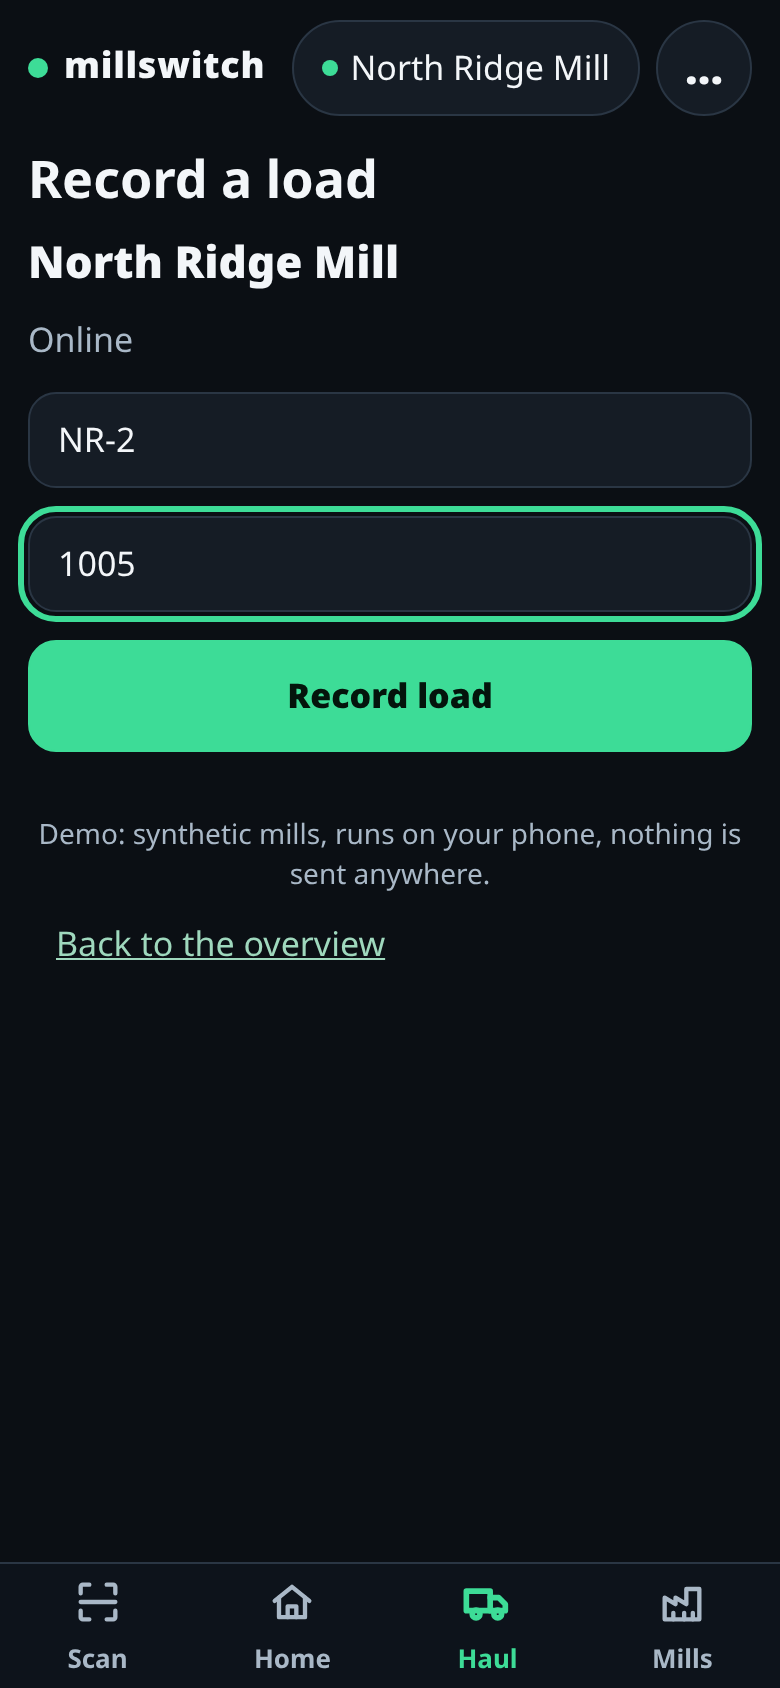
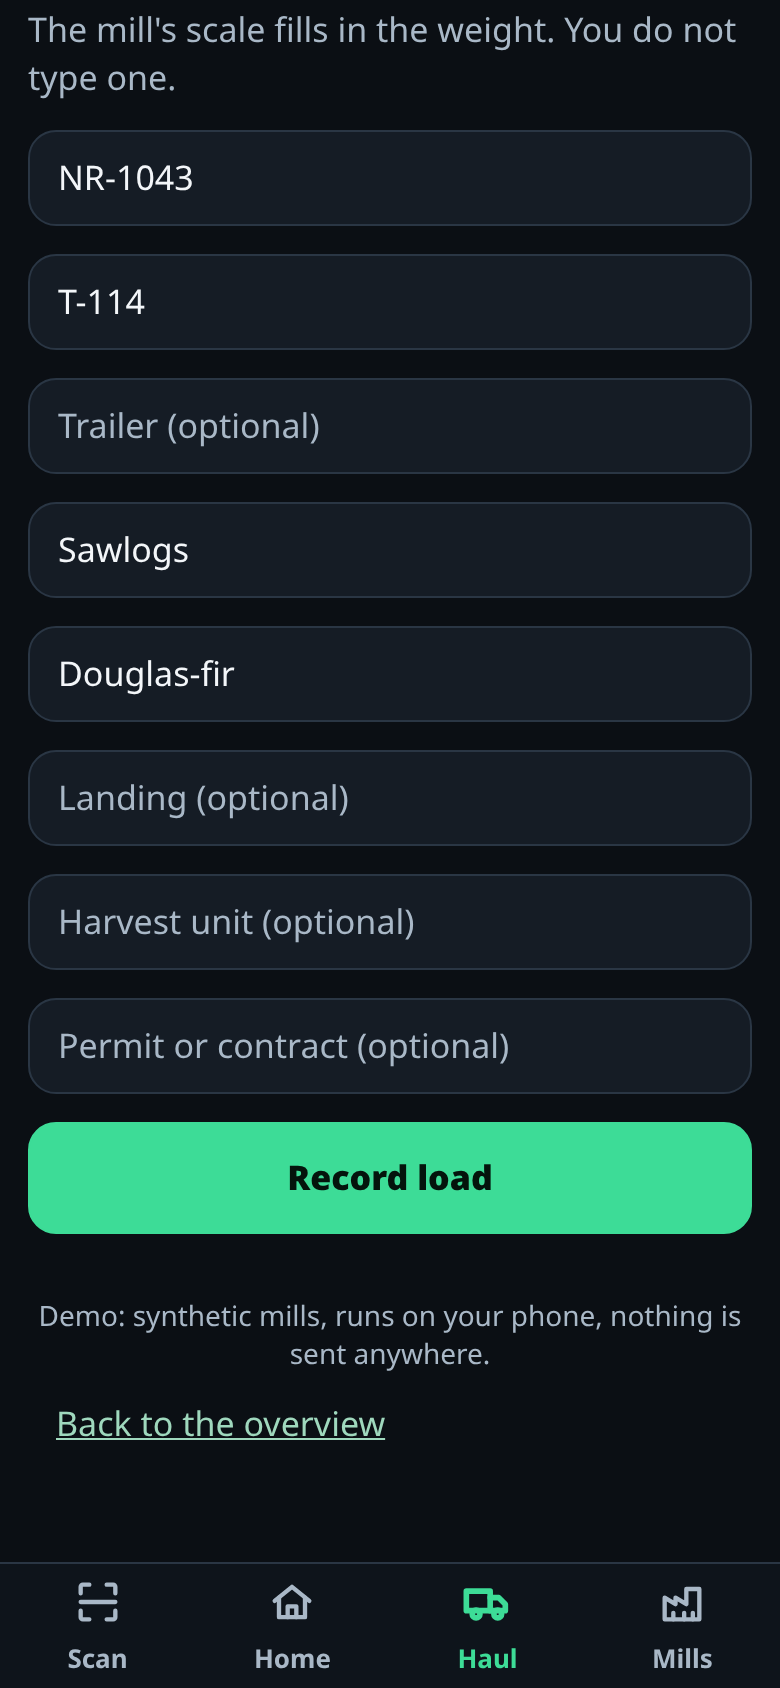
Refresh README, adapter design, screens and demo GIF for the current app
Per-driver invites redeemed with a sign-in token, pending vs scaled loads,
credited weight in the mill's unit, and offline loads with a phone-made id.
Screens and GIF recaptured from the current demo build.

diff --git a/docs/adapter-design.md b/docs/adapter-design.md
@@ -1,21 +1,26 @@
 # Connecting MillSwitch to a mill system: high-level design
 
-MillSwitch plugs into an existing mill or scale-house system through one adapter. This page describes what the app needs from that system and how an adapter is held to it. It names no specific vendor; everything below is a general assumption to confirm when a real integration is built.
+MillSwitch plugs into an existing mill or scale-house system through one adapter and a sign-in hook. This page describes what the app needs from that system and how an adapter is held to it. It names no specific vendor; everything below is a general assumption to confirm when a real integration is built.
 
 ## What the app needs from a mill system
 
-1. **Membership through signed invites.** A mill hands out an invite, shown as a QR code, that carries only the mill, a one-time value, an expiry and a signature. It holds no secrets. A driver who redeems it becomes a member of that mill and receives a credential for it in one step.
-2. **Load reporting and crediting.** The app can list a driver's delivered loads (ticket, delivery time, tons) and the credited total, which equals the sum of those loads.
-3. **Per-mill history.** Each mill keeps its own history, so a driver who switches mills sees that mill's loads and nothing from the others.
+1. **Driver sign-in.** The driver signs in once with the platform's own identity provider. The app never holds the driver's login secret or a client secret.
+2. **Per-driver signed invites, issued by the mill.** The mill's back office or scale house issues a short-lived invite for a specific driver (or carrier), shown as a QR code. It carries only the mill, a key id, a one-time value, an expiry, the driver it is for and a signature. It holds no secrets. Issuing the invite is how the mill approves the driver, and the mill can revoke that driver later.
+3. **Redeeming an invite.** The app sends the invite together with the driver's sign-in token. The mill takes the driver's identity from that token, never from an id the app supplies, and returns an access token and a refresh token scoped to that mill only.
+4. **Loads as pending tickets.** A driver records a load (slip, truck, trailer, product, origin). It is a pending ticket until the mill's scale fills in gross, tare and net, which makes it scaled; the scaled ticket is authoritative. The mill can also reject a ticket.
+5. **Credited weight.** Credited weight is the sum of scaled net weight only. Pending and rejected loads count for nothing. Each mill shows it in its own unit (for example short tons for a US mill).
+6. **Safe replay after a dead zone.** Loads recorded with no signal are queued on the phone and sent when it reconnects. Each load carries a client-generated id (clientLoadId): a retry with the same load returns the original ticket, and a different load with the same id is refused.
+7. **Per-mill history.** Each mill keeps its own loads, so a driver who switches mills sees that mill's loads and nothing from the others.
 
 ## What an adapter assumes
 
-- The system exposes the mills a driver app can join, each with a stable id and a display name.
-- Invites are single-use and expire. A mill refuses reuse, expiry, tampering and a foreign signature.
-- Credentials are issued per mill. One mill refuses another mill's credential, and a mill can check a credential and say who it belongs to.
-- Loads and credited tons are available per driver.
+- The system has a public list of sites a driver may try to join, and, separately, the mills this driver holds tokens for. Neither is a cross-tenant listing of the driver's mills.
+- Invites are single-use and expire. A mill refuses reuse, expiry, tampering, an unknown key and a foreign signature.
+- Tokens are issued per mill, short-lived and refreshable. One mill refuses another mill's token, and a revoked driver's token is refused.
+- A mill can check a token and say which mill, driver and expiry it belongs to.
+- On the phone, a driver's per-mill tokens sit in secure storage, one token per mill. Switching mills means using a different token, with no cross-tenant query.
 - Every call is request and response, and can fail with a clear refusal.
-- A real system may not let an app create invites at all. That step may exist only for testing.
+- Issuing invites, revoking drivers and scaling or rejecting loads are back-office calls. They never ship in the driver app.
 
 ```
  phone app --> port (what the app needs) --> adapter --> mill system
@@ -27,4 +32,4 @@ MillSwitch plugs into an existing mill or scale-house system through one adapter
 
 ## How contract tests keep any adapter honest
 
-The app talks to a mill system only through a small port. A shared set of contract tests describes what any adapter must do: accept a good invite, refuse a reused, expired, tampered or foreign one, keep credentials separate per mill, and credit exactly the sum of the loads. Today these tests run against a synthetic adapter with invented mills. A new adapter is done when the same tests succeed against it. If an assumption proves false, the port and these notes change together.
+The app talks to a mill system only through a small port. A shared set of contract tests describes what any adapter must do: accept a good invite and refuse a reused, expired, tampered or foreign one; take identity from the sign-in token; keep tokens separate per mill and honour revocation; keep loads pending until scaled; return the original ticket on a replayed load and refuse a conflicting one; and credit exactly the sum of scaled net weight. Today these tests run against a synthetic adapter with invented mills. A new adapter is done when the same tests are green against it. If an assumption proves false, the port and these notes change together.

diff --git a/README.md b/README.md
@@ -2,15 +2,16 @@
 
 One driver app for every mill: scan in, haul, get credited, switch in one tap.
 
-MillSwitch is a phone app for log-truck drivers who haul for several mills. Its code is private; this repo shows what it does, how it was built, and how it connects to a mill system.
+MillSwitch is a phone app for log-truck drivers who haul for several mills. Its code is private; this repo shows what it does and how it connects to a mill system.
 
 ## What it does for a driver
 
-- **Scan in.** Point the camera at a mill's QR code and you are a member of that mill.
-- **Haul.** Deliver loads as usual.
-- **Get credited.** Each load shows up as credited tons for the mill it went to.
-- **Switch in one tap.** Every mill you have joined is in one list, with today's loads and tons; tap one to make it active.
-- **Works with no signal.** Loads recorded in the woods are queued and sent when the phone is back online.
+- **One sign-in, many mills.** The driver signs in once. Each mill relationship is separate: the mill issues that driver a signed, short-lived invite, so the mill decides who joins, and the mill can remove a driver later.
+- **Scan in.** Scanning the mill's invite QR code redeems it. The app hands over the invite together with the driver's sign-in token, and the mill returns a token that works for that mill only.
+- **Haul.** Each load is recorded as a pending ticket for the active mill.
+- **Get credited.** A load stays pending until the mill's scale weighs it; then it is scaled, and the scaled ticket is the record that counts. The mill can also reject a load. Credited weight is the sum of scaled net weight, shown in the mill's own unit.
+- **Switch in one tap.** Every mill the driver has joined is in one list, with today's loads and credited weight; tap one to make it active. Each mill keeps its own loads.
+- **Works with no signal.** Loads recorded out of signal are queued on the phone and sent when it reconnects. Each load carries an id made on the phone, so a retry never creates a second ticket.
 
 ## Try it on your phone
 
@@ -20,33 +21,21 @@ Open <https://pebcrow.com/millswitch>. The app and its synthetic demo mills run 
 
 ![Demo](media/demo.gif)
 
-The demo GIF shows four screens in order: scan, home, haul, mills.
+The demo GIF shows five screens in order: scan, join, record a load, home, your mills.
 
-| Scan | Home | Haul | Mills |
-|---|---|---|---|
-| ![Scan](screens/scan.png) | ![Home](screens/home.png) | ![Haul](screens/haul.png) | ![Mills](screens/mills.png) |
+| Scan | Join | Haul | Home | Mills |
+|---|---|---|---|---|
+| ![Scan](screens/scan.png) | ![Join](screens/join.png) | ![Haul](screens/haul.png) | ![Home](screens/home.png) | ![Mills](screens/mills.png) |
 
 ## Connecting to a mill system
 
-MillSwitch plugs into an existing mill or scale-house system through one adapter. See [docs/adapter-design.md](docs/adapter-design.md).
-
-## How it was built
-
-MillSwitch was built by the Pebcrow guild, a set of automated workers. The work was split into small work items (beads) under one epic. Each claim (a written promise about what the project delivers) has an automated check, and every bead's change landed through an automated test run.
-
-| Measure | Number |
-|---|---|
-| Build time | about 5 hours of wall clock, one day (first app commit to latest app change) |
-| Commits | 22 in the app repo (20 landed through bead lanes; the other 2 set up the repo and its test run) |
-| Beads | 19 under one epic, 12 of them in the app repo (the rest are the website page and this showcase) |
-| Claims | 18 proposed, 17 approved, 1 declined (scope dropped) |
-| Tests | 64 test cases in 23 files (Vitest unit tests and Playwright phone-flow tests) |
-| Review rounds | an adversarial review of the app (4 must-fix: 3 fixed, 1 withdrawn; 8 should-fix) and a fresh review of what is published |
-| Demo mills | 3 synthetic mills, one QR code each |
+MillSwitch plugs into an existing mill or scale-house system through one small adapter and a sign-in hook. See [docs/adapter-design.md](docs/adapter-design.md).
 
 ## Code access on request
 
 The code is private. Code access on request: contact Pebcrow Inc. at https://pebcrow.com/pebcrow_contact.
+
+Built by the [Pebcrow Guild](https://pebcrow.com/guild).
 
 ## Disclaimer
 
